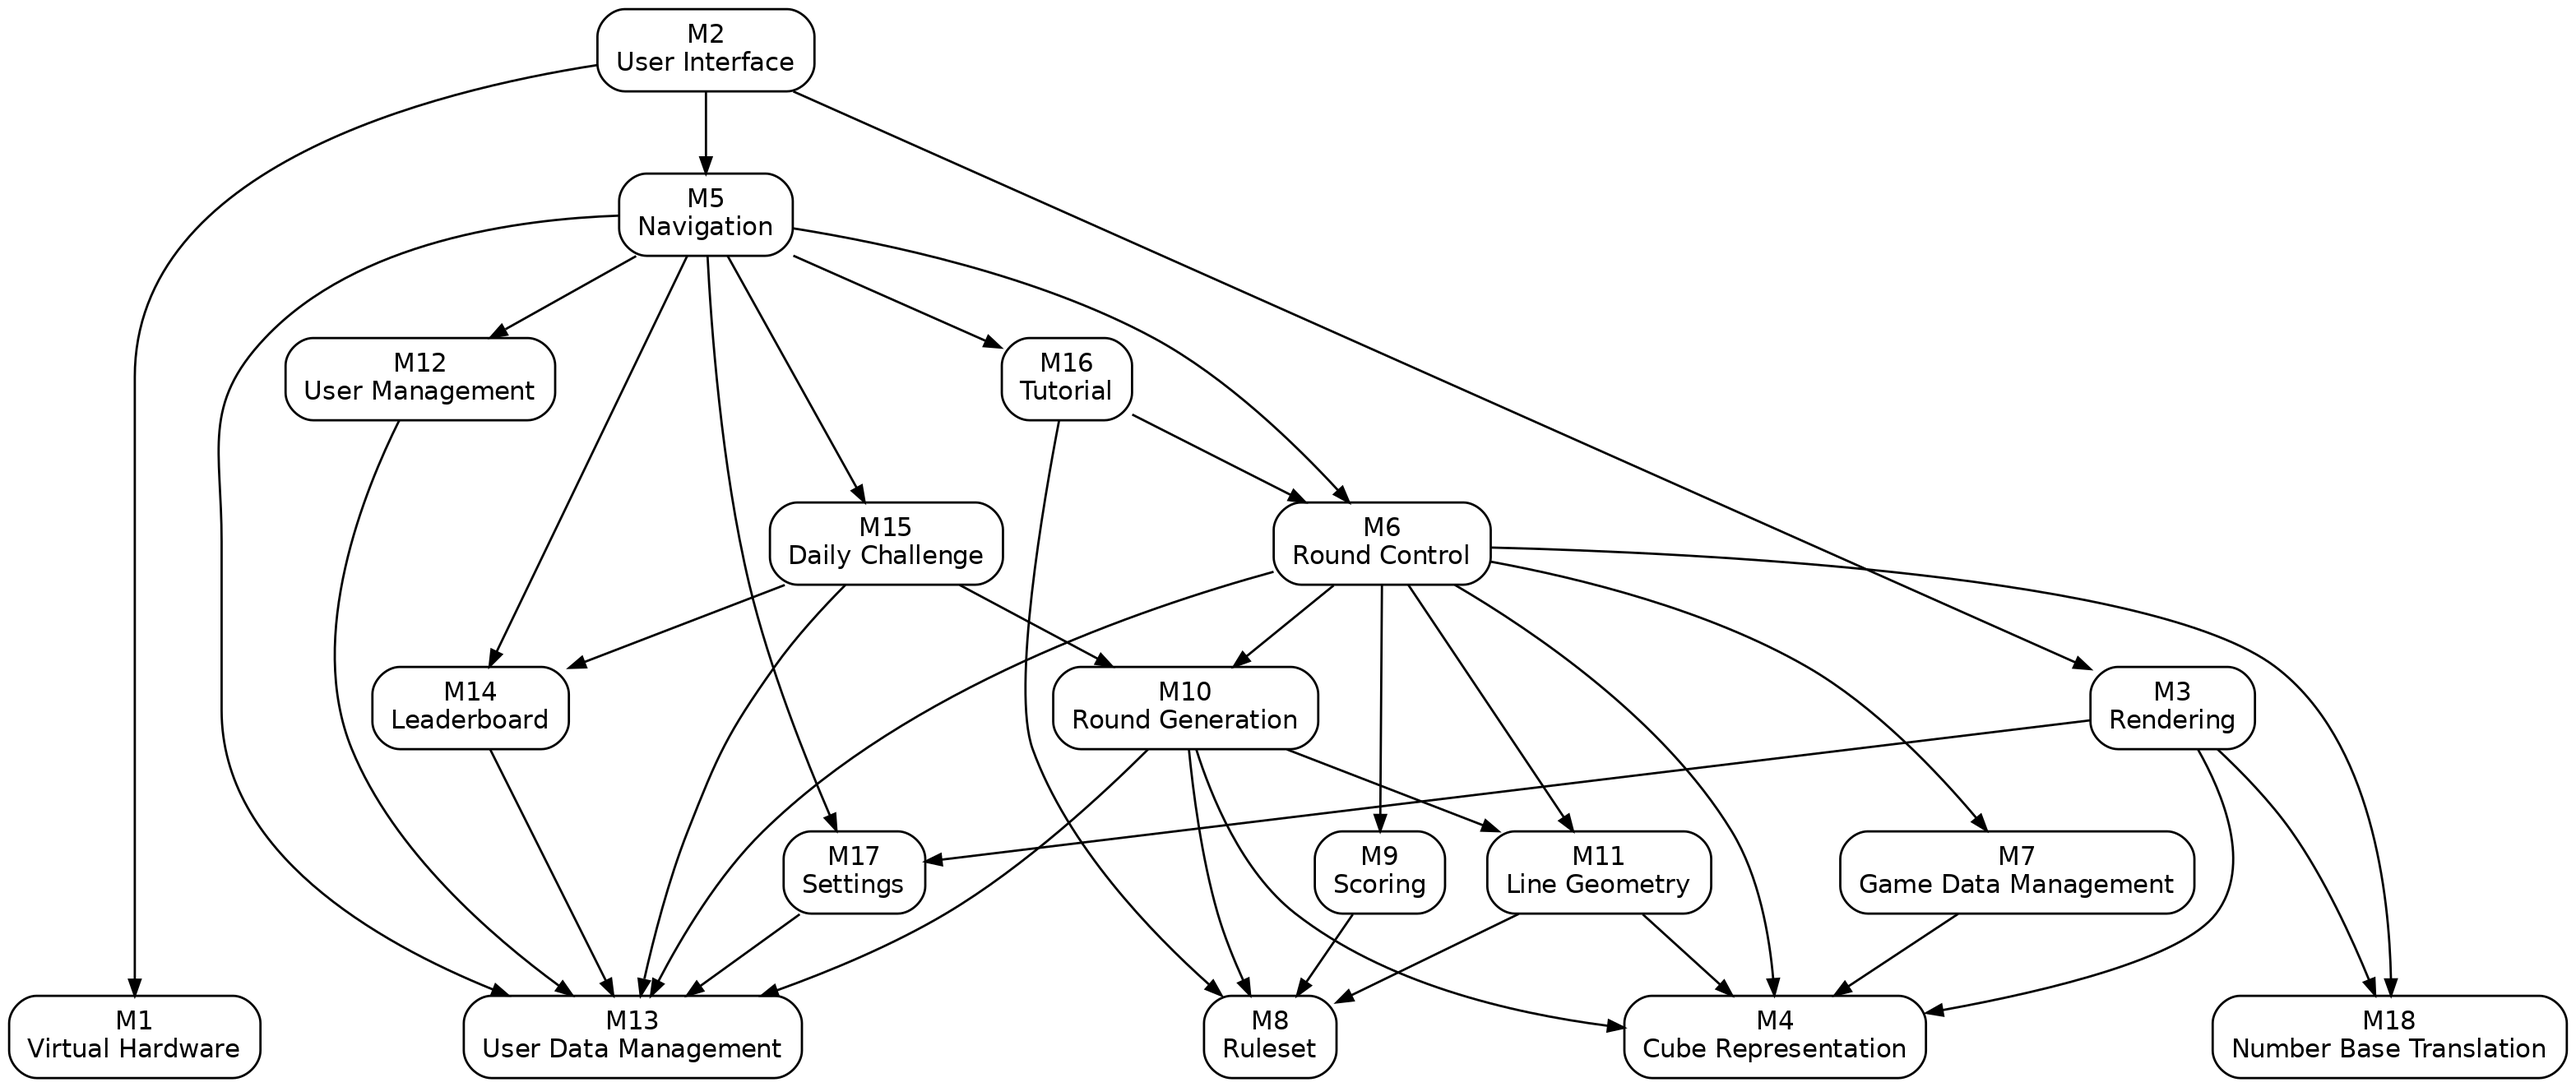
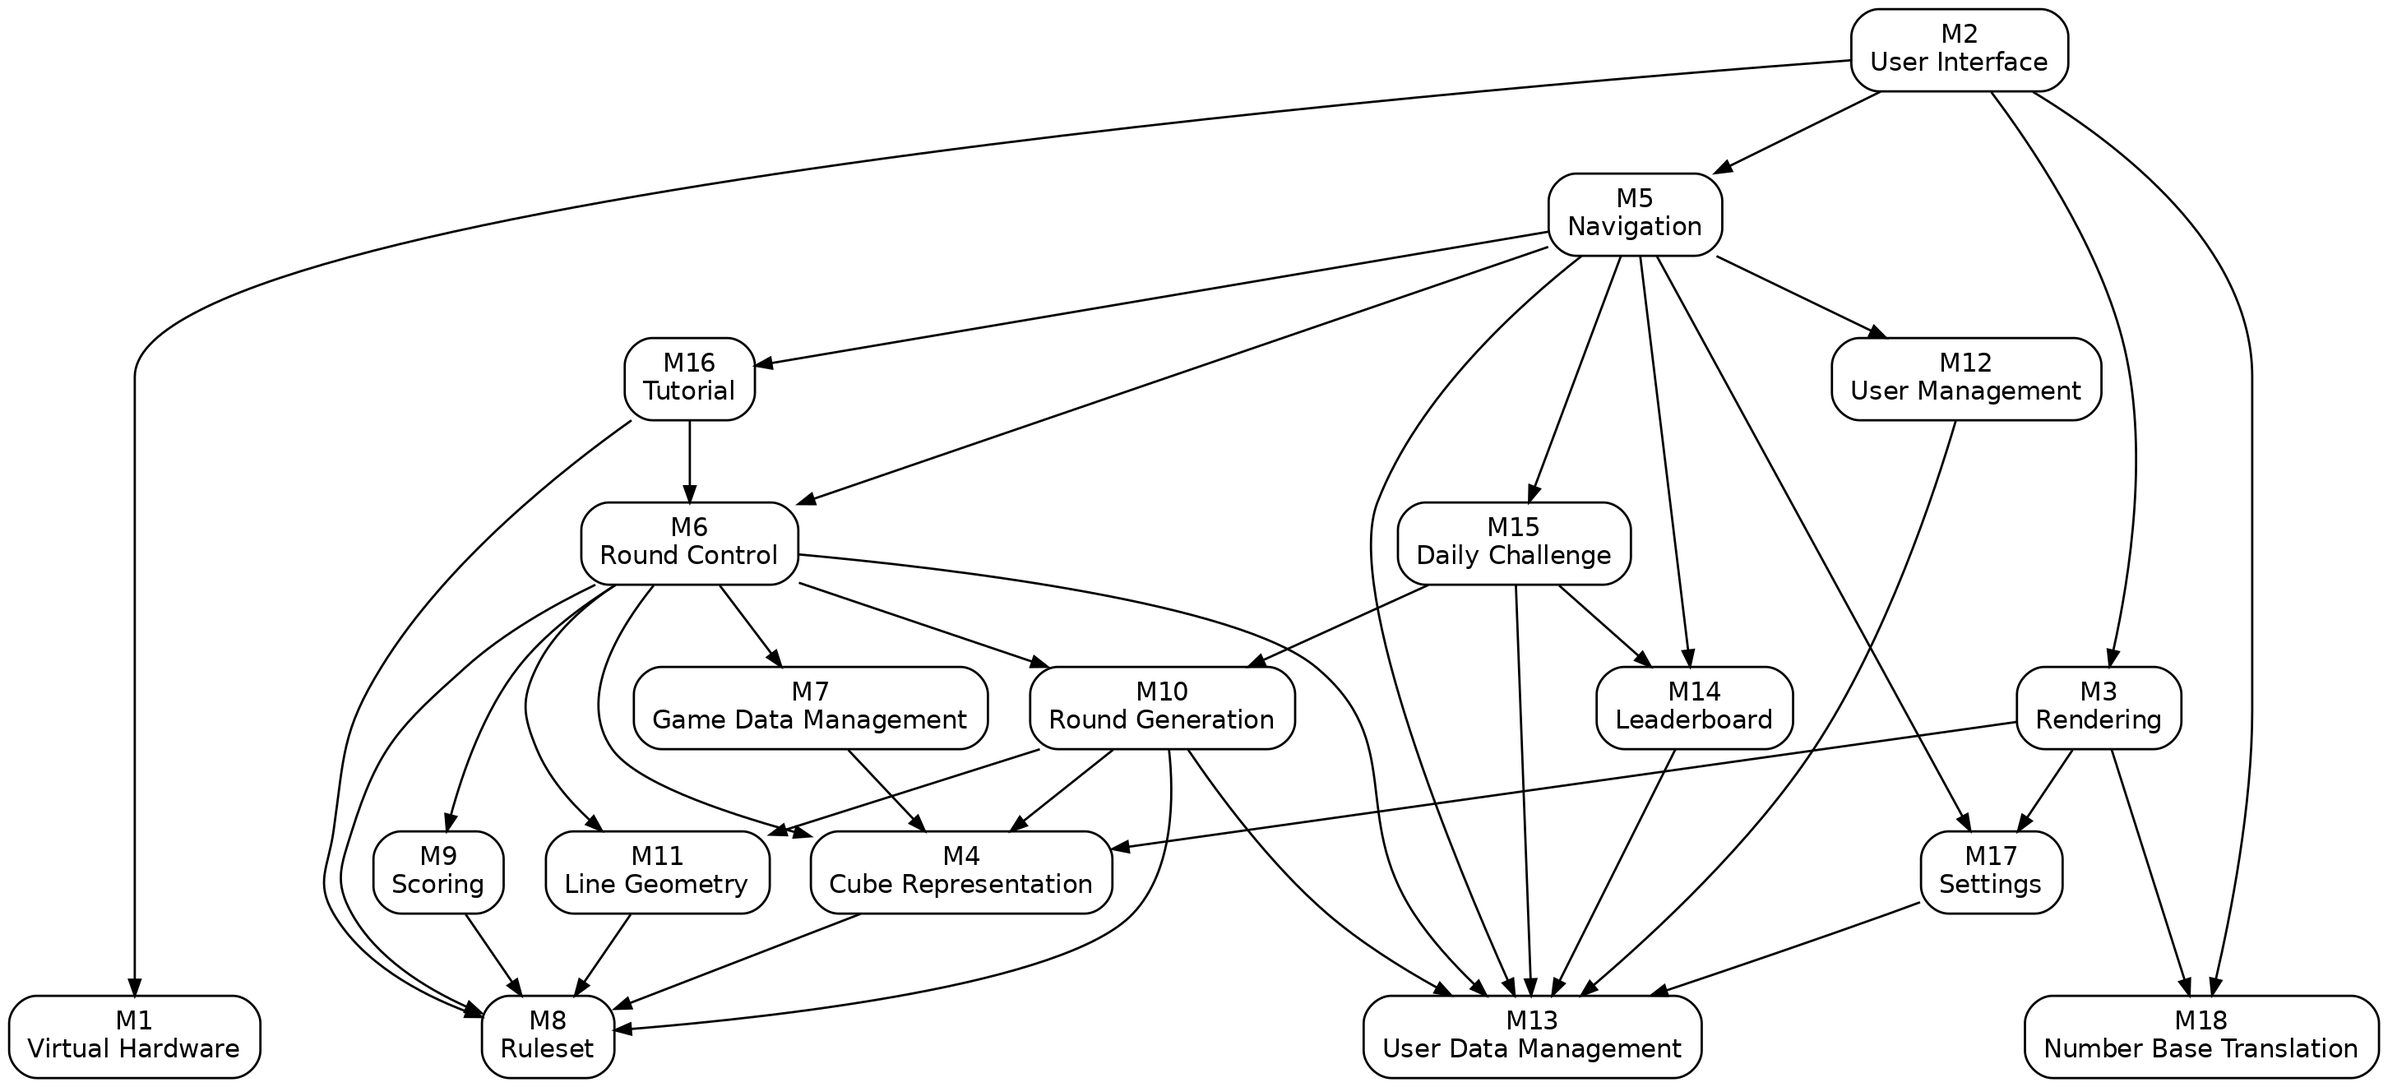
Further Updates to MG

diff --git a/docs/Design/SoftArchitecture/MG.tex b/docs/Design/SoftArchitecture/MG.tex
@@ -167,7 +167,7 @@ change.
 \begin{description}
 \item [\refstepcounter{acnum} \actheacnum \label{acHardware}:] The specific hardware and browser environment on which the software is running.
 \item [\refstepcounter{acnum} \actheacnum \label{acUI}:] How user input is received and translated into commands, and how the application state is presented to the user.
-\item [\refstepcounter{acnum} \actheacnum \label{acCR}:] The data structure and algorithms used to represent and manipulate the magic cube.
+\item [\refstepcounter{acnum} \actheacnum \label{acCR}:] The data structure used to store the numbers of the magic cube and look them up by cell.
 \item [\refstepcounter{acnum} \actheacnum \label{acN}:] The screens and menus in the application and the transitions/structure between them.
 \item [\refstepcounter{acnum} \actheacnum \label{acRC}:] The sequence of steps within a round and within each task.
 \item [\refstepcounter{acnum} \actheacnum \label{acR}:] The rules of a round including the number and sequence of tasks, the cube order, and the valid line types for the tasks.
@@ -459,7 +459,7 @@ to be implemented.
 \subsubsection{Cube Representation Module (\mref{mCR})}
 
 \begin{description}
-\item[Secrets:] The internal data structure used to represent the cube in a given state (i.e., game space).
+\item[Secrets:] The data structure used to store the numbers of the magic cube and look them up by cell.
 \item[Services:]
 \item[Implemented By:]
 \item[Type of Module:]
@@ -477,7 +477,7 @@ to be implemented.
 \subsubsection{Round Generation Module (\mref{mRG})}
 
 \begin{description}
-\item[Secrets:] Algorithm to compose a round (i.e., number of tasks, difficulty progression, etc.).
+\item[Secrets:] The algorithms used to choose a round's plane, orientation, starter, and the line type for each task, consistent with the ruleset.
 \item[Services:]
 \item[Implemented By:]
 \item[Type of Module:]
@@ -656,8 +656,8 @@ because they use modules from the lower levels.
 
 An arrow from module A to module B means that A uses B. Only direct uses are
 shown; since the relation is transitive, indirect uses follow from the arrows.
-The modules on the bottom row (\mref{mVH}, \mref{mCR}, \mref{mR}, \mref{mNBT},
-and \mref{mUDM}) use no other module. \mref{mUI} sits at the top because it is
+The modules on the bottom row (\mref{mVH}, \mref{mR}, \mref{mNBT}, and
+\mref{mUDM}) use no other module. \mref{mUI} sits at the top because it is
 the only point of contact with the user: it reads input through \mref{mVH},
 passes the resulting commands to \mref{mN}, obtains the 2D view of the current
 state from \mref{mRE}, and displays it through \mref{mVH}. No other module uses
